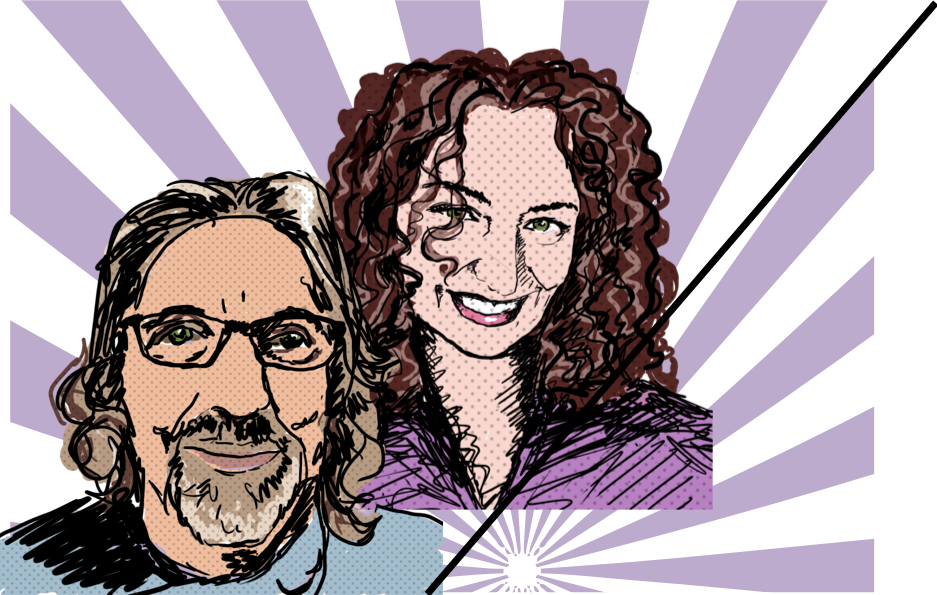
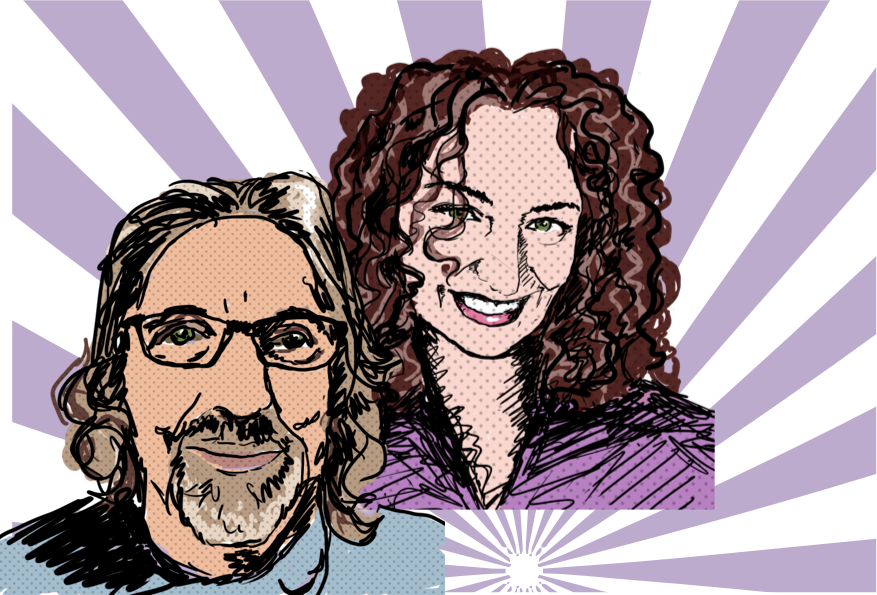
fixed couple image

diff --git a/wds_website/src/Components/services.js b/wds_website/src/Components/services.js
@@ -6,7 +6,7 @@ class Services extends Component {
         return(
             <div className="flex-container"> 
                 <div className="flex-container100">
-                   <img src={backgroundServices} className="couple_img" alt="couple" /> 
+                   <img className="couple-img" src={backgroundServices}  alt="couple" /> 
                 </div>  
             <div className="flex-container100" style={{background: "blue"}}>
             

diff --git a/wds_website/src/App.js b/wds_website/src/App.js
@@ -6,6 +6,7 @@ import Main from './components/main';
 import logo from './images/WDS-logo.svg'
 import { Link } from 'react-router-dom';
 
+
 class App extends Component {
   render() {
     return (

diff --git a/wds_website/src/App.css b/wds_website/src/App.css
@@ -37,7 +37,7 @@
   height: 768px;
 }
 
-.couples-img {
+.couple-img {
   width: 351px;
   height: 295px;
 }
